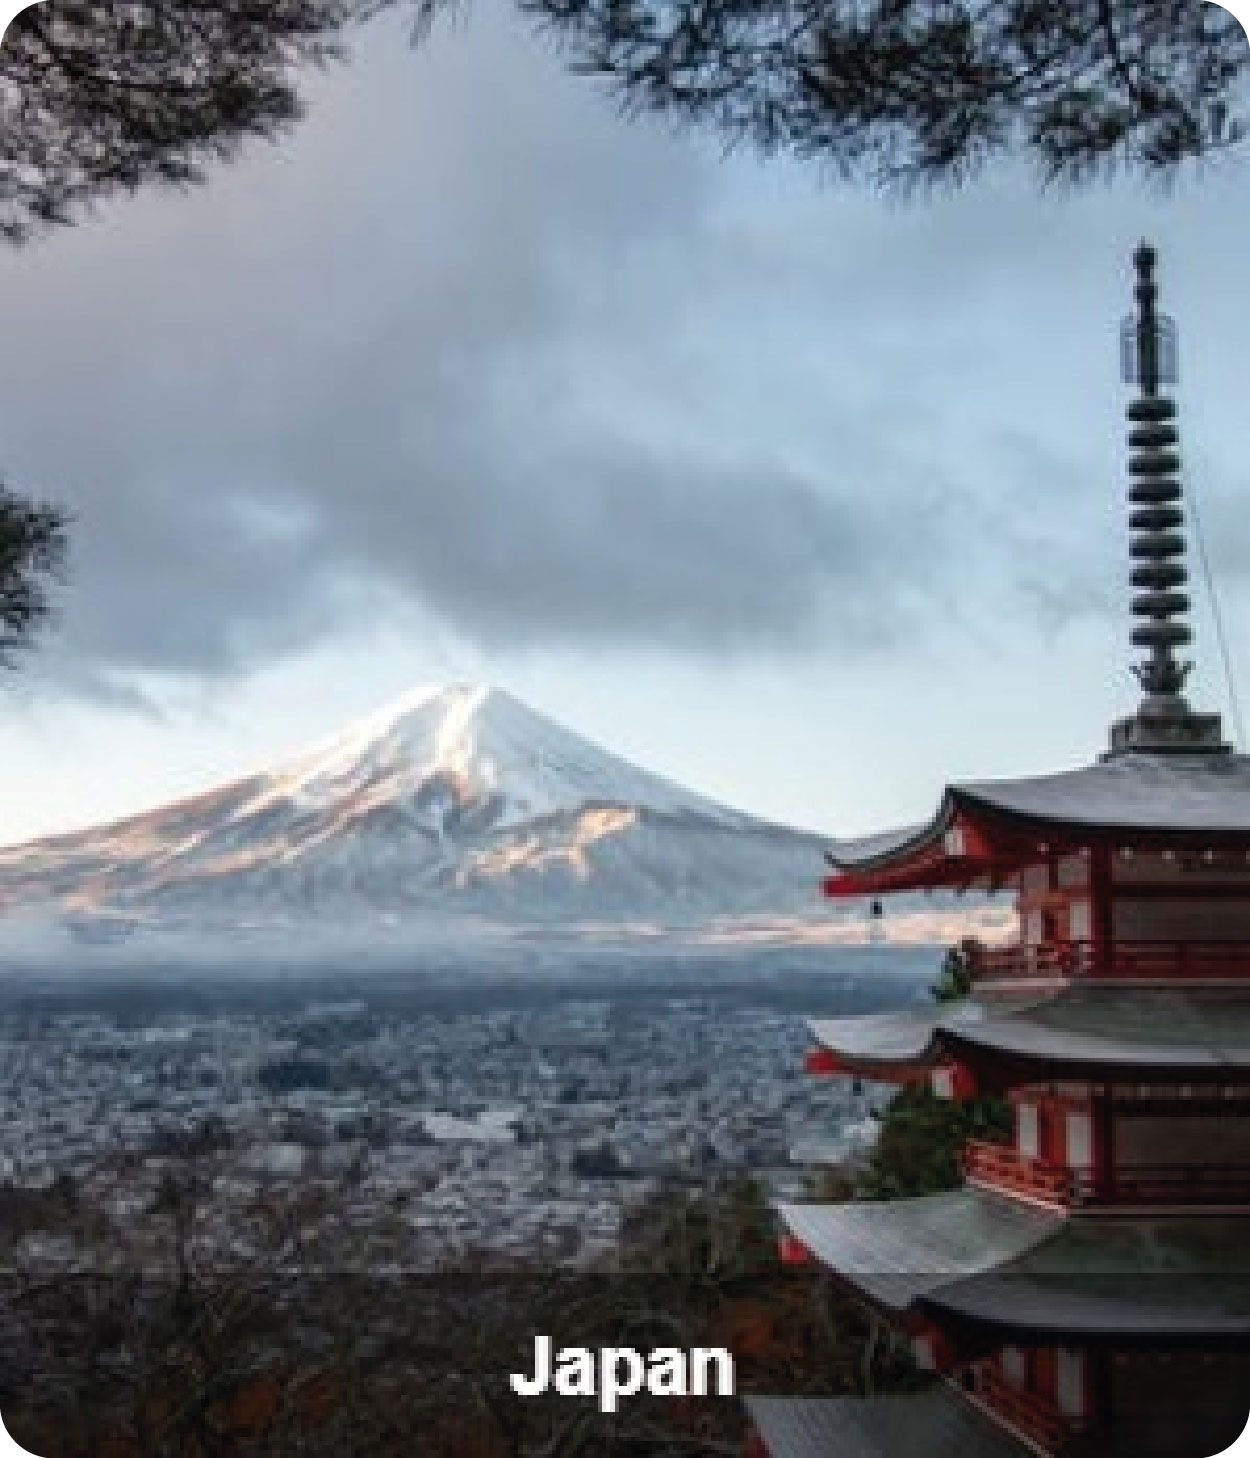
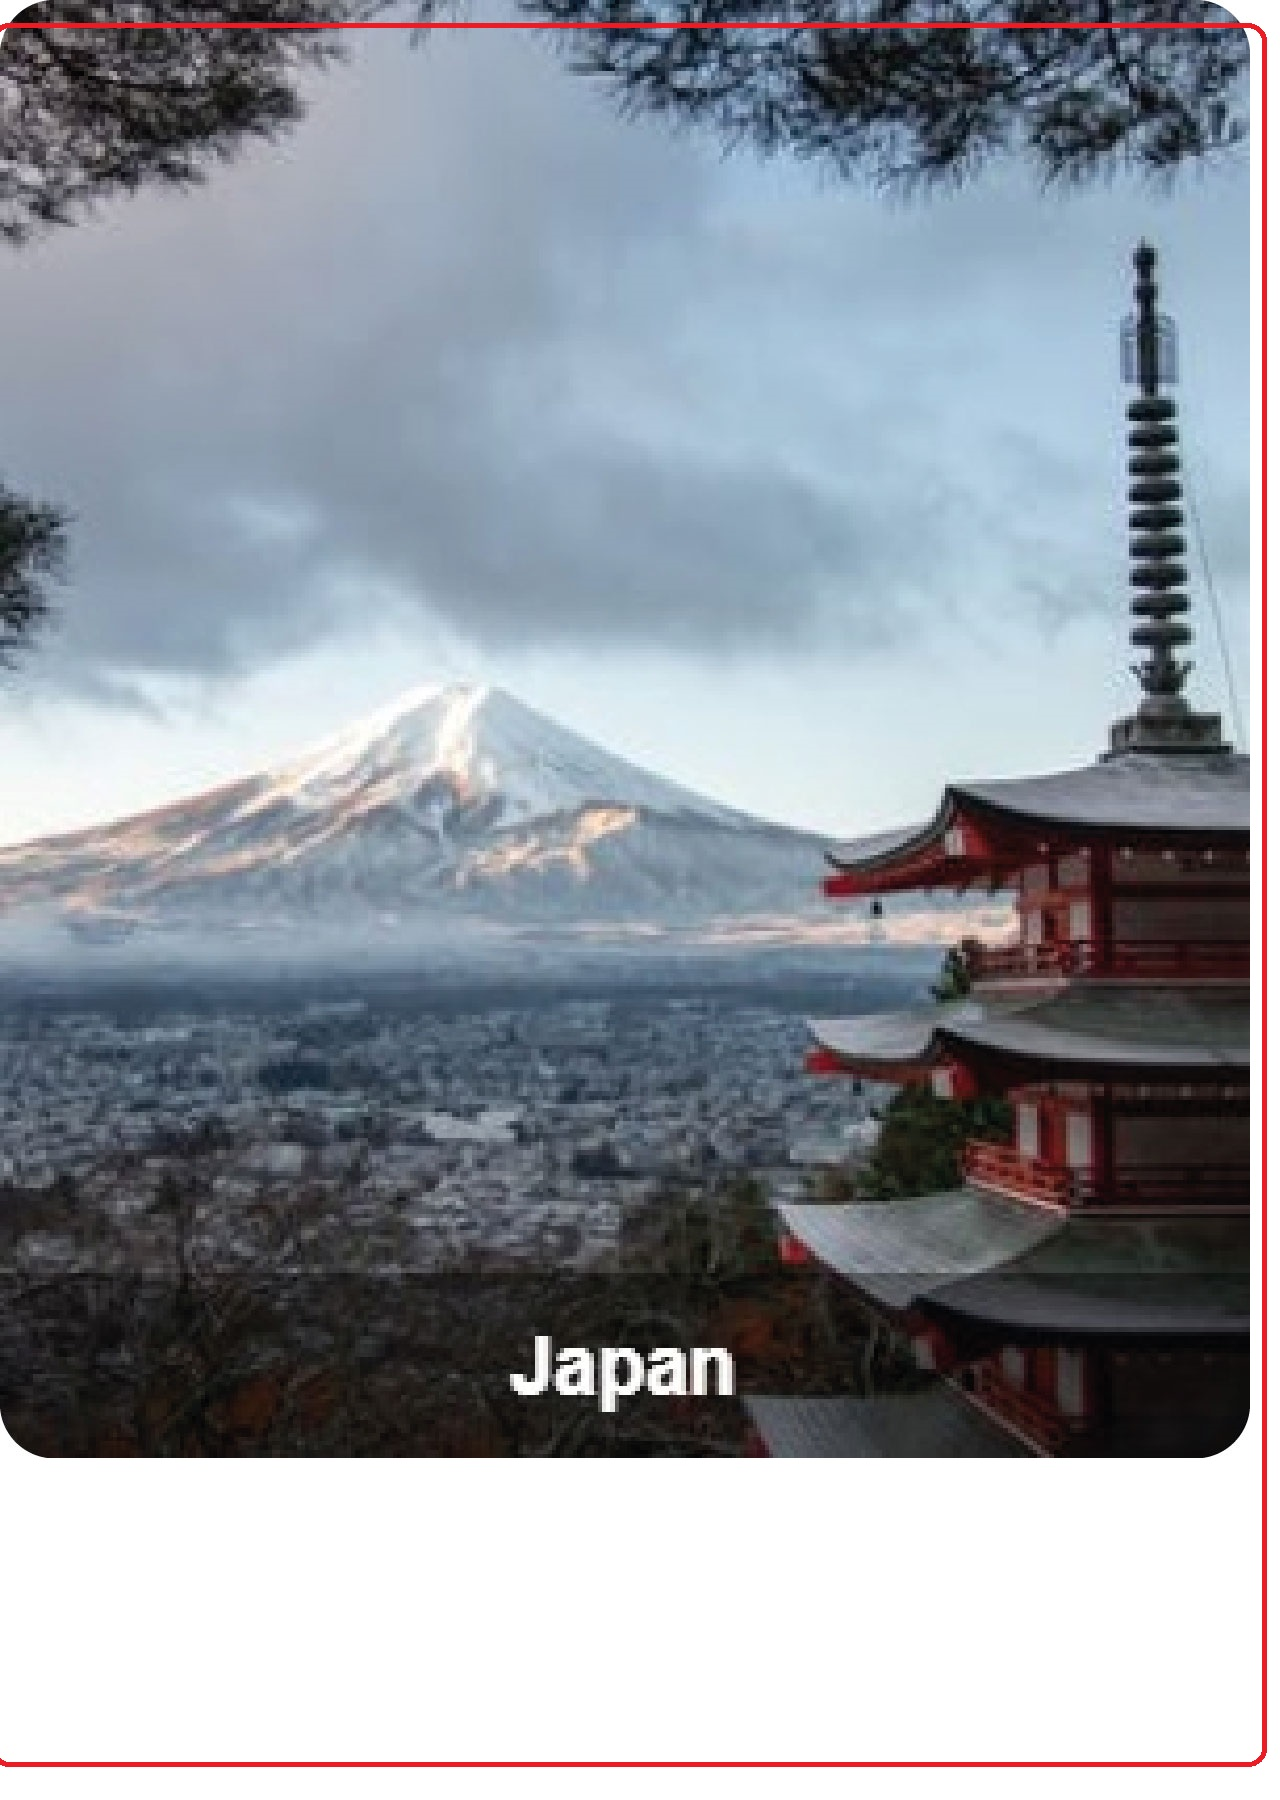
fff
fff

diff --git a/mapa2.html b/mapa2.html
@@ -1,0 +1,169 @@
+<!DOCTYPE html>
+
+<html lang="es">
+
+<head>
+<meta charset="UTF-8">
+<meta name="viewport" content="width=device-width, initial-scale=1.0">
+<title>COMPUGUED | Tecnología</title>
+
+  <!-- Fonts & Icons -->
+  <link rel="preconnect" href="https://fonts.googleapis.com">
+  <link rel="preconnect" href="https://fonts.gstatic.com" crossorigin>
+  <link href="https://fonts.googleapis.com/css2?family=Poppins:wght@300;400;500;600;700&display=swap" rel="stylesheet">
+  <link rel="stylesheet" href="https://cdnjs.cloudflare.com/ajax/libs/font-awesome/6.5.0/css/all.min.css"/>
+  <link rel="stylesheet" href="css/style.css">
+
+</head>
+
+
+<body>
+
+<!--ESTILO CELULAR -->  
+<div class="phone">
+
+<!-- LOGO -->
+<div class="header">
+    <img src="img/logo/logofondoazul.png" class="avatar_mapa">
+    <h1 class="titulo-principal">COMPUGUED</h1>
+    
+<!-- REDES SOCIALES -->
+    <!-- <div class="social">
+        <i class="fa-brands fa-instagram"></i>        
+        <i class="fa-brands fa-facebook"></i>
+        <i class="fa-brands fa-x-twitter"></i>
+    </div> -->
+</div>
+<!-- FIN LOGO -->
+<!-- FIN REDES SOCIALES -->
+
+<div class="container">
+
+
+    <div class="map-container">
+    <!-- IMAGEN MAPA -->
+    <img src="img/naipe/1.jpg" alt="Mapa ubicación COMPUGUED">
+
+    <!-- BOTÓN VOLVER -->
+    <a href="index.html" class="back-btn btnmapa">⬅ Volver</a>
+  </div>
+  </div><div class="slider">
+  
+
+</div>
+
+<!-- DOBLE BOTON PDF + WTZ -->
+
+<!-- DOBLE BOTON PDF + WTZ -->
+<!-- <footer>
+    📌 7 de enero 1299,  esquina Pedro Ruiz <br>
+  </footer> -->
+</div>
+<!--FIN ESTILO CELULAR -->
+
+ 
+
+
+<!-- ENLACE JS -->
+<!-- <script src="js/app.js"></script> -->
+<!-- FIN ENLACE JS -->
+
+</body>
+
+<style>
+
+  .header{
+  margin-bottom:10px;
+
+}
+
+body{
+  display:flex;
+  justify-content:center;
+  align-items:flex-start; /* 👈 CLAVE: ya no centra vertical */
+  height:100vh;           /* pantalla fija */
+  overflow:hidden;        /* sin scroll */
+  background:linear-gradient(160deg,#1a1f3c,#0b0f24);
+  color:#fff;
+  margin:0;
+  padding-top:20px;       /* 👈 pequeño margen superior */
+}
+
+    
+
+    .map-container{
+      width:100%;
+      max-width:420px;
+      text-align:center;
+      padding:5px;
+    }
+
+    .map-container img{
+      width:100%;
+      height: 450px;
+      border-radius:16px;
+      box-shadow:0 15px 40px rgba(0,0,0,.5);
+      margin-bottom:20px;
+    }
+
+    .back-btn{
+      display:inline-block;
+      padding:12px 22px;
+      border-radius:14px;
+      background:#000;
+      color:#fff;
+      text-decoration:none;
+      font-weight:600;
+      border:2px solid #fff;
+      transition:.3s;
+    }
+
+    .back-btn:hover{
+      transform:translateY(-3px);
+      box-shadow:0 10px 25px rgba(0,0,0,.4);
+    }
+
+/* css para mapa.html */
+.avatar_mapa{ /*Control Logo*/
+    width:60px;
+    height:60px;
+    border-radius:50%;
+    /* border:4px solid #fff; */
+    border: none;
+    object-fit: cover;
+}
+
+.header h2{ /*Texto COMPUGUED*/
+    margin:5px 0 4px;
+    font-size: 22px;
+}
+
+.phone{
+  width:100%;
+  max-width:420px;
+}
+
+
+/* BOTON-VIBRACION */
+.btnmapa { 
+    position: relative;
+    text-decoration: none;
+    color: #fff;
+    transition: color 350ms ease-in-out, background-color 350ms ease-in-out;
+    animation: bouncy 3s infinite linear;
+}
+
+@keyframes bouncy {
+    0%, 40% { top: 0px; }
+    43% { top: -15px; }
+    46% { top: 0px; }
+    48% { top: -7px; }
+    50% { top: 0px; }
+    100% { top: 0px; }
+}
+/* FIN BOTON-VIBRACION */
+
+
+
+  </style>
+</html>

diff --git a/mapaantigo.html b/mapaantigo.html
@@ -1,0 +1,104 @@
+<!DOCTYPE html>
+<html lang="es">
+<head>
+
+  <!-- Fonts & Icons -->
+  <link rel="preconnect" href="https://fonts.googleapis.com">
+  <link rel="preconnect" href="https://fonts.gstatic.com" crossorigin>
+  <link href="https://fonts.googleapis.com/css2?family=Poppins:wght@300;400;500;600;700&display=swap" rel="stylesheet">
+  <link rel="stylesheet" href="https://cdnjs.cloudflare.com/ajax/libs/font-awesome/6.5.0/css/all.min.css"/>
+  <link rel="stylesheet" href="css/style.css">
+
+
+  <meta charset="UTF-8">
+  <meta name="viewport" content="width=device-width, initial-scale=1.0">
+  <title>Ubicación | COMPUGUED</title>
+
+  <link rel="stylesheet" href="css/style.css">
+
+
+</head>
+
+<body>
+<div class="phone">
+
+<!-- LOGO -->
+<div class="header">
+    <img src="img/logo/logofondoazul.png" class="avatar_mapa">
+    <h2 class="titulo-principal_2">COMPUGUED</h2>
+    <!-- <p>Asesoría y Venta de Computadoras, Laptops, Impresoras y Accesorios Tecnológicos</p> -->
+
+<!-- REDES SOCIALES -->
+    <!-- <div class="social">
+        <i class="fa-brands fa-instagram"></i>        
+        <i class="fa-brands fa-facebook"></i>
+        <i class="fa-brands fa-x-twitter"></i>
+    </div> -->
+</div>
+<!-- FIN LOGO -->
+<!-- FIN REDES SOCIALES -->
+
+  <div class="map-container">
+    <!-- IMAGEN MAPA -->
+    <img src="img/naipe/1.jpg" alt="Mapa ubicación COMPUGUED">
+
+    <!-- BOTÓN VOLVER -->
+    <a href="index.html" class="back-btn">⬅ Volver</a>
+  </div>
+</div>
+  <style>
+    
+
+    .map-container{
+      width:100%;
+      max-width:420px;
+      text-align:center;
+      padding:5px;
+    }
+
+    .map-container img{
+      width:100%;
+      height: 400px;
+      border-radius:16px;
+      box-shadow:0 15px 40px rgba(0,0,0,.5);
+      margin-bottom:20px;
+    }
+
+    .back-btn{
+      display:inline-block;
+      padding:12px 22px;
+      border-radius:14px;
+      background:#000;
+      color:#fff;
+      text-decoration:none;
+      font-weight:600;
+      border:2px solid #fff;
+      transition:.3s;
+    }
+
+    .back-btn:hover{
+      transform:translateY(-3px);
+      box-shadow:0 10px 25px rgba(0,0,0,.4);
+    }
+
+/* css para mapa.html */
+.avatar_mapa{ /*Control Logo*/
+    width:60px;
+    height:60px;
+    border-radius:50%;
+    /* border:4px solid #fff; */
+    border: none;
+    object-fit: cover;
+}
+
+.header h2{ /*Texto COMPUGUED*/
+    margin:5px 0 4px;
+    font-size: 22px;
+}
+
+
+
+  </style>
+
+</body>
+</html>

diff --git a/css/style.css b/css/style.css
@@ -381,3 +381,21 @@ body{
   50% { transform: scale(1.15); }
   100% { transform: scale(1); }
 }
+
+
+
+
+/* css para mapa.html */
+.avatar{ /*Control Logo*/
+    width:90px;
+    height:90px;
+    border-radius:50%;
+    /* border:4px solid #fff; */
+    border: none;
+    object-fit: cover;
+}
+
+.header h1{ /*Texto COMPUGUED*/
+    margin:8px 0 4px;
+    font-size: 22px;
+}

diff --git a/index.html b/index.html
@@ -51,6 +51,7 @@
   </div>
 <!--FIN WIDGET CLIMA -->  
 
+<!-- LOGO -->
 <div class="header">
     <img src="img/logo/logofondoazul.png" class="avatar">
     <h1 class="titulo-principal">COMPUGUED</h1>
@@ -63,6 +64,7 @@
         <i class="fa-brands fa-x-twitter"></i>
     </div>
 </div>
+<!-- FIN LOGO -->
 <!-- FIN REDES SOCIALES -->
 
 <div class="container">

diff --git a/js/app.js b/js/app.js
@@ -204,5 +204,5 @@ setInterval(updateWeather, 600000);
 
 /* IR A MAPA */
 function goToMap(){
-  window.location.href = 'mapa.html';
+  window.location.href = 'mapa2.html';
 }
